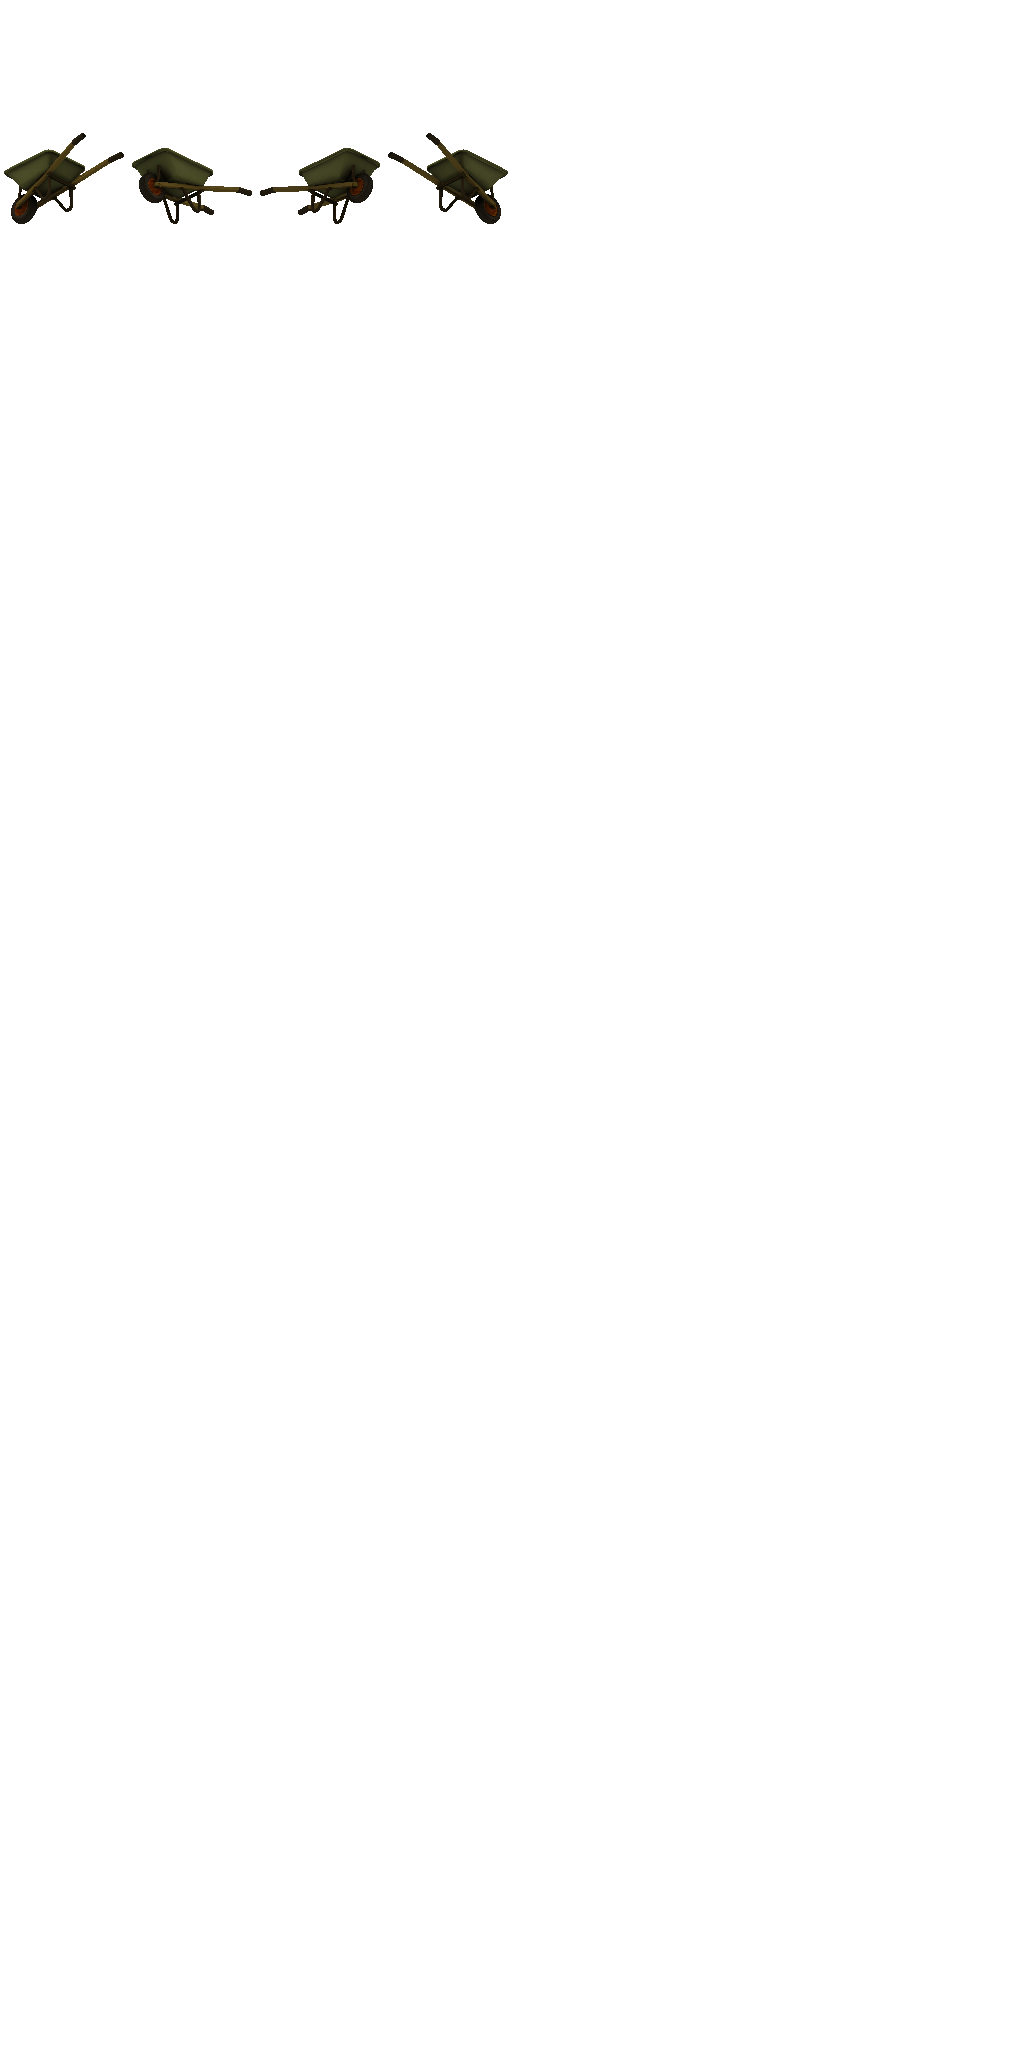
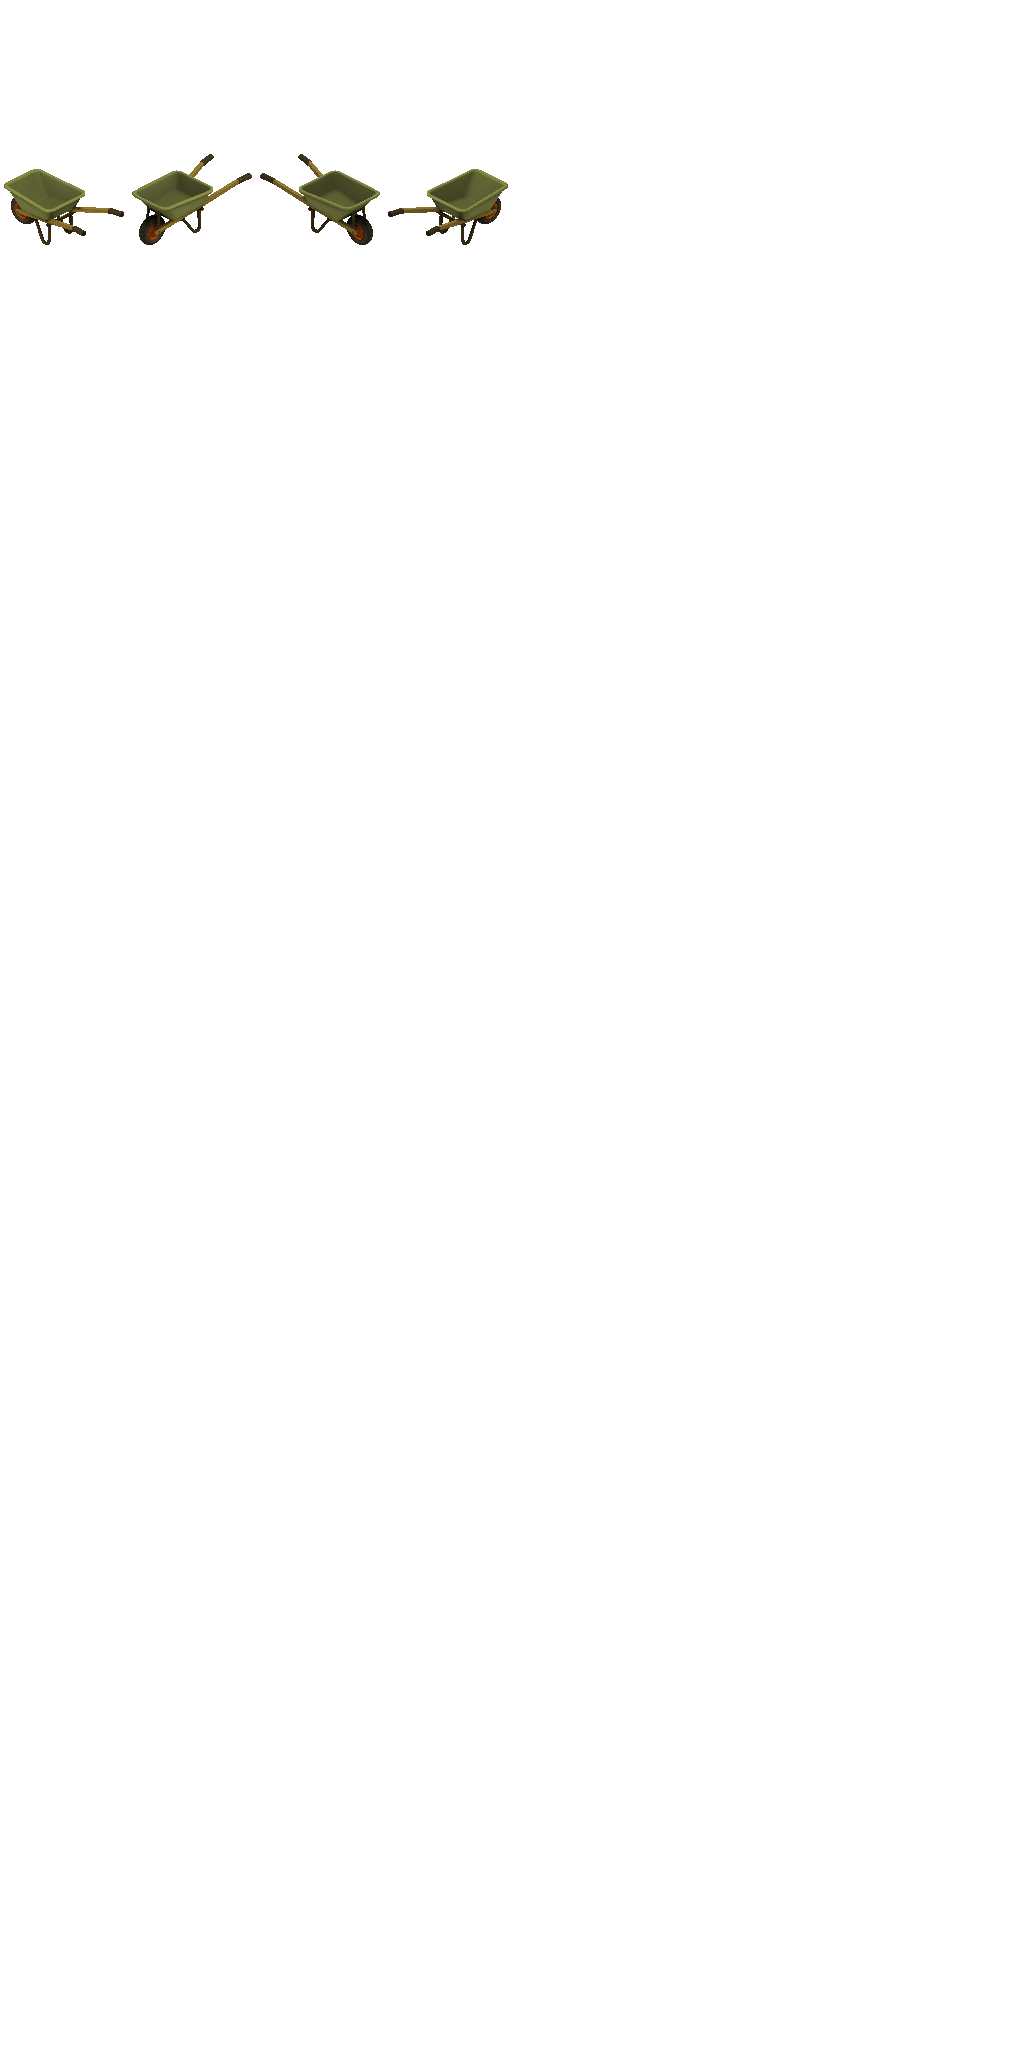
Corrige a projecao dos sprites: a camera estava olhando por baixo
Bug de sinal: sy = y*cos(fi) - fwd*sin(fi) faz o que esta mais longe descer na
tela, que e o comportamento de uma camera abaixo do objeto -- dava para ver o
fundo da cacamba em vez de dentro dela. Em isometria com camera elevada, o que
esta atras sobe. Mesmo erro na profundidade do z-buffer: ponto mais alto esta
mais PERTO de uma camera elevada, nao mais longe.

Ancora corrigida por medicao, nao por deducao: eu tinha calculado (64,224)
supondo que o losango do chao ocupasse os 64 pixels de baixo. Medindo 213
celulas reais de cinco folhas vanilla, a base do conteudo tem mediana em
y = 245. Com 224 o sprite flutuava 21 pixels acima do chao.

Brilho calibrado da mesma forma: sprites vanilla tem luminancia mediana 79
(73 celulas amostradas) e o render cru saia bem abaixo disso. Com o ganho
ajustado o resultado ficou em 78.8.

Changed region(s): [[0.125, 0.0625, 0.375, 0.125], [0.4062, 0.0625, 0.5, 0.125], [0.0, 0.0625, 0.0938, 0.125]]

diff --git a/assets/tools_render_iso_sprites.py b/assets/tools_render_iso_sprites.py
@@ -11,10 +11,16 @@ altura de 1.4142*s*sin(elevacao). A razao largura/altura e portanto
 1/sin(elevacao). O PZ usa losango 2:1, logo sin(elevacao) = 0.5 e a elevacao
 e exatamente 30 graus.
 
-ANCORA:
-no PZ o centro do losango do chao fica na base do sprite. Num sprite 2x de
-128x256 o losango ocupa os 64 pixels de baixo, entao o centro fica em
-(64, 224). O modelo e posicionado com a base nesse ponto.
+ANCORA -- medida, nao deduzida:
+a primeira versao usava (64, 224), calculado supondo que o losango do chao
+ocupasse exatamente os 64 pixels de baixo. Errado: medindo 213 celulas reais
+de cinco folhas vanilla (moveis, eletrodomesticos, armazenamento), a base do
+conteudo tem mediana em y = 245 e o centro horizontal em x = 63. Com 224 o
+sprite flutuava 21 pixels acima do chao.
+
+Para referencia, nessas mesmas amostras a largura do conteudo tem mediana 94
+e maximo 126, e a altura mediana 117. O carrinho e um objeto comprido, entao
+ficar perto do limite de largura e esperado.
 """
 import json
 import math
@@ -24,7 +30,11 @@ import sys
 from PIL import Image
 
 SPRITE_W, SPRITE_H = 128, 256
-ANCHOR_X, ANCHOR_Y = 64, 224
+# Sprites do jogo base tem luminancia mediana ~79 (medido em 73 celulas de
+# quatro folhas vanilla). A textura deste modelo e escura, entao o render
+# cru saia escuro demais. Este ganho foi calibrado medindo o resultado.
+BRIGHTNESS = 1.45
+ANCHOR_X, ANCHOR_Y = 64, 245
 ELEVATION = math.radians(30.0)
 
 # Ordem das faces como o PZ nomeia: a camera olha o objeto de frente em cada uma.
@@ -64,8 +74,13 @@ def render(mesh, texture, azimuth_deg):
         right = x * ct - z * st
         fwd = x * st + z * ct
         sx[i] = right
-        sy[i] = y * ce - fwd * se
-        depth[i] = fwd * ce + y * se
+        # Camera ACIMA olhando para baixo: o que esta mais longe sobe na tela.
+        # Com o sinal invertido aqui, a cena era vista por baixo -- dava para
+        # ver o fundo da cacamba do carrinho em vez de dentro dela.
+        sy[i] = y * ce + fwd * se
+        # Profundidade ao longo da direcao de visao, que aponta para frente e
+        # para baixo: ponto mais alto esta mais PERTO de uma camera elevada.
+        depth[i] = fwd * ce - y * se
 
     minx, maxx = min(sx), max(sx)
     miny, maxy = min(sy), max(sy)
@@ -137,10 +152,11 @@ def render(mesh, texture, azimuth_deg):
                 ty = int((1.0 - v) * (th_ - 1)) % th_
                 r, g, b = tex[tx, ty][:3]
                 zbuf[yy][xx] = zz
+                s = shade * BRIGHTNESS
                 out[xx, yy] = (
-                    min(255, int(r * shade)),
-                    min(255, int(g * shade)),
-                    min(255, int(b * shade)),
+                    min(255, int(r * s)),
+                    min(255, int(g * s)),
+                    min(255, int(b * s)),
                     255,
                 )
     return img
